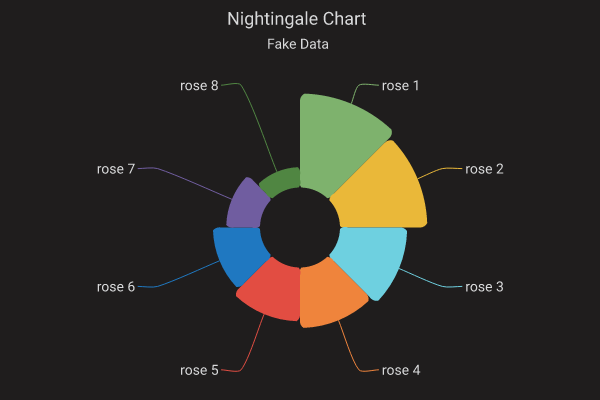
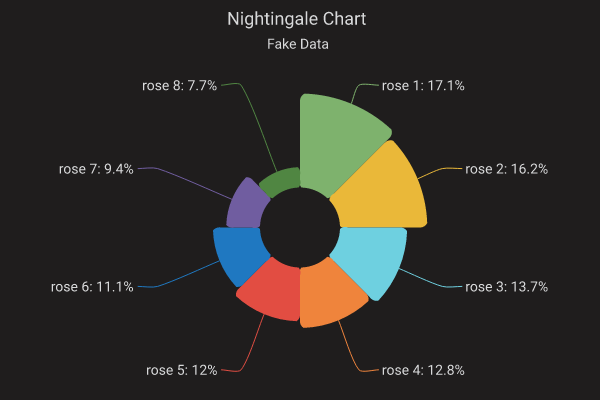
refactor: adjust series label formatter

diff --git a/src/charts/pie_chart.rs b/src/charts/pie_chart.rs
@@ -69,6 +69,7 @@ pub struct PieChart {
     pub series_stroke_width: f32,
     pub series_label_font_color: Color,
     pub series_label_font_size: f32,
+    pub series_label_formatter: String,
     pub series_colors: Vec<Color>,
     pub series_symbol: Option<Symbol>,
     pub series_smooth: bool,
@@ -127,7 +128,9 @@ impl PieChart {
             .map(|item| item.data.iter().sum())
             .collect();
         let mut max = 0.0;
+        let mut sum = 0.0;
         for item in values.iter() {
+            sum += *item;
             if *item > max {
                 max = *item;
             }
@@ -146,9 +149,14 @@ impl PieChart {
         let cx = (c.width() - radius_double) / 2.0 + r;
         let cy = (c.height() - radius_double) / 2.0 + r;
         let label_offset = 20.0;
+        let mut series_label_formatter = self.series_label_formatter.clone();
+        if series_label_formatter.is_empty() {
+            series_label_formatter = "{a}: {d}".to_string();
+        }
 
         for (index, series) in self.series_list.iter().enumerate() {
-            let value = values[index] / max * r;
+            let value = values[index];
+            let cr = value / max * r;
             let color = *self
                 .series_colors
                 .get(series.index.unwrap_or(index))
@@ -158,15 +166,16 @@ impl PieChart {
                 fill: color,
                 cx,
                 cy,
-                r: value,
+                r: cr,
                 ir: self.inner_radius,
                 start_angle,
                 delta,
                 ..Default::default()
             });
+
             let angle = start_angle + half_delta;
             let mut points = vec![];
-            points.push(get_pie_point(cx, cy, value, angle));
+            points.push(get_pie_point(cx, cy, cr, angle));
             let mut end = get_pie_point(cx, cy, r + label_offset, angle);
             points.push(end);
 
@@ -181,11 +190,20 @@ impl PieChart {
                 top: end.y + 5.0,
                 ..Default::default()
             };
+            let label_option = LabelOption {
+                series_name: series.name.clone(),
+                value,
+                percentage: value / sum,
+                formatter: series_label_formatter.clone(),
+                ..Default::default()
+            };
+            let label_text = label_option.format();
+
             if is_left {
                 if let Ok(b) = measure_text_width_family(
                     &self.font_family,
                     self.series_label_font_size,
-                    &series.name,
+                    &label_text,
                 ) {
                     label_margin.left -= b.width();
                 }
@@ -202,7 +220,7 @@ impl PieChart {
             });
 
             c.child(label_margin).text(Text {
-                text: series.name.clone(),
+                text: label_text,
                 font_family: Some(self.font_family.clone()),
                 font_size: Some(self.series_label_font_size),
                 font_color: Some(self.series_label_font_color),

diff --git a/src/charts/util.rs b/src/charts/util.rs
@@ -210,6 +210,30 @@ pub fn convert_to_points(values: &[(f32, f32)]) -> Vec<Point> {
     values.iter().map(|item| item.to_owned().into()).collect()
 }
 
+#[derive(Clone, Debug, Default)]
+pub(crate) struct LabelOption {
+    pub series_name: String,
+    pub category_name: String,
+    pub value: f32,
+    pub percentage: f32,
+    pub formatter: String,
+}
+impl LabelOption {
+    pub fn format(&self) -> String {
+        // {a}：系列名。{b}：数据名。{c}：数据值。{d}：百分比
+        let value = format_float(self.value);
+        let percentage = format_float(self.percentage * 100.0) + "%";
+        if self.formatter.is_empty() {
+            return value;
+        }
+        self.formatter
+            .replace("{a}", &self.series_name)
+            .replace("{b}", &self.category_name)
+            .replace("{c}", &value)
+            .replace("{d}", &percentage)
+    }
+}
+
 pub fn format_string(value: &str, formatter: &str) -> String {
     if formatter.is_empty() {
         value.to_string()

diff --git a/src/charts/horizontal_bar_chart.rs b/src/charts/horizontal_bar_chart.rs
@@ -66,6 +66,7 @@ pub struct HorizontalBarChart {
     pub series_stroke_width: f32,
     pub series_label_font_color: Color,
     pub series_label_font_size: f32,
+    pub series_label_formatter: String,
     pub series_colors: Vec<Color>,
     pub series_symbol: Option<Symbol>,
     pub series_smooth: bool,

diff --git a/src/charts/radar_chart.rs b/src/charts/radar_chart.rs
@@ -97,6 +97,7 @@ pub struct RadarChart {
     pub series_stroke_width: f32,
     pub series_label_font_color: Color,
     pub series_label_font_size: f32,
+    pub series_label_formatter: String,
     pub series_colors: Vec<Color>,
     pub series_symbol: Option<Symbol>,
     pub series_smooth: bool,

diff --git a/src/charts/line_chart.rs b/src/charts/line_chart.rs
@@ -66,6 +66,7 @@ pub struct LineChart {
     pub series_stroke_width: f32,
     pub series_label_font_color: Color,
     pub series_label_font_size: f32,
+    pub series_label_formatter: String,
     pub series_colors: Vec<Color>,
     pub series_symbol: Option<Symbol>,
     pub series_smooth: bool,

diff --git a/src/charts/bar_chart.rs b/src/charts/bar_chart.rs
@@ -67,6 +67,7 @@ pub struct BarChart {
     pub series_stroke_width: f32,
     pub series_label_font_color: Color,
     pub series_label_font_size: f32,
+    pub series_label_formatter: String,
     pub series_colors: Vec<Color>,
     pub series_symbol: Option<Symbol>,
     pub series_smooth: bool,

diff --git a/TODO.md b/TODO.md
@@ -4,3 +4,4 @@
 - [] 支持图表的font-weight，每个label都使用其为默认值
 - [] fontdue与fontdb中对于bold等类型字体名称不一致
 - [] format的方法支持更多类型，{a}：系列名。{b}：数据名。{c}：数据值。{d}：百分比。
+- [] 填充曲线图中文本输出顺序调整
